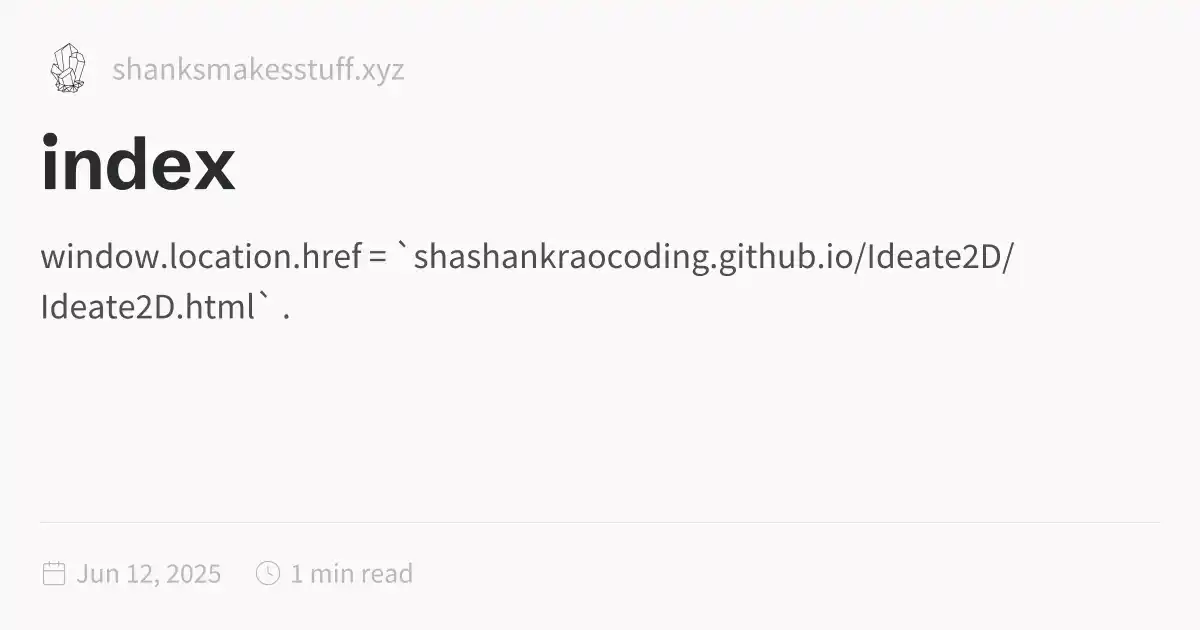
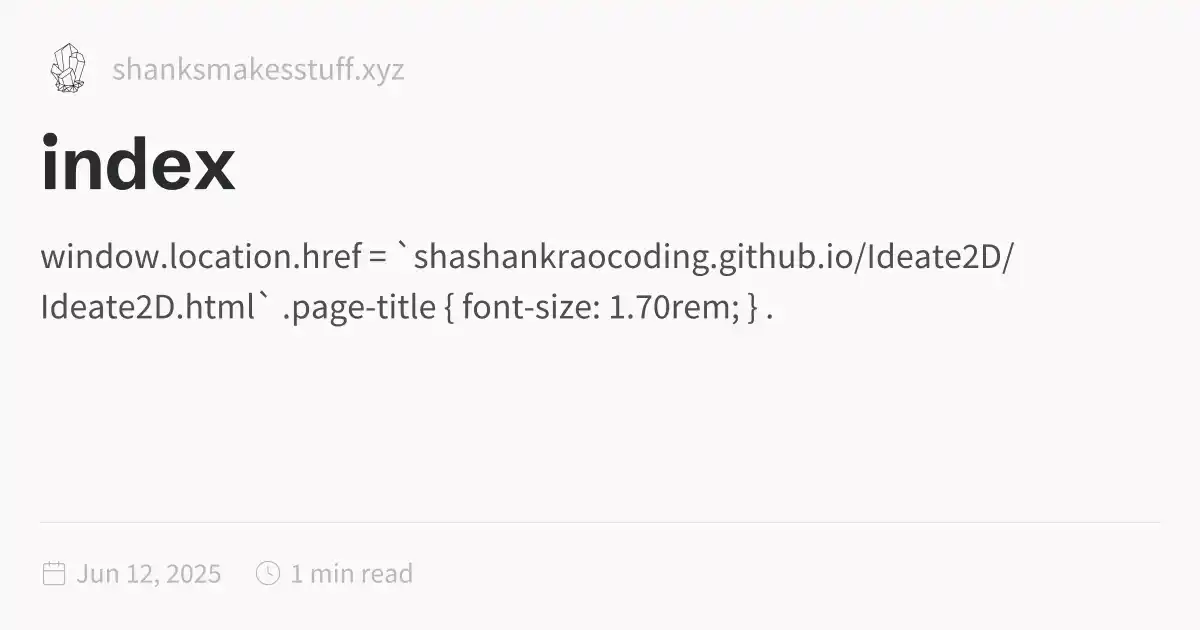
2025-06-12_2155

Changed region(s): [[0.2467, 0.4524, 0.6475, 0.5127]]

diff --git a/Ideate2D.html b/Ideate2D.html
@@ -116,7 +116,7 @@ pre:hover > .expand-button {
   padding: 0 12px;
   font-size: 14px;
 }
[2 lines of base64/hex data omitted]
 <p><strong>Ideate2D</strong> is a <em>WYSIWYG 2D game engine</em> built on top of <strong>PyGame</strong>, designed to help you bring your ideas to life faster—whether you’re a complete beginner or an experienced dev who just wants to get things done.</p>
 <p>💡 <strong>Why Ideate2D?</strong></p>
 <ul>
@@ -140,7 +140,14 @@ pre:hover > .expand-button {
 <li>No Warranty: The author, and any contributors to this repository are not responsible for any errors, negligence, omissions, or damages resulting from the use or misuse of the software.</li>
 <li>By using this software, you agree to assume all risks associated with its use.</li>
 </ul>
-<p><a href="https://github.com/ShashankRaoCoding/Ideate2D" class="external">GitHub Page <svg aria-hidden="true" class="external-icon" style="max-width:0.8em;max-height:0.8em;" viewBox="0 0 512 512"><path d="M320 0H288V64h32 82.7L201.4 265.4 178.7 288 224 333.3l22.6-22.6L448 109.3V192v32h64V192 32 0H480 320zM32 32H0V64 480v32H32 456h32V480 352 320H424v32 96H64V96h96 32V32H160 32z"></path></svg></a></p></article><hr/><div class="page-footer"></div></div><div class="right sidebar"><div class="graph"><h3>Graph View</h3><div class="graph-outer"><div class="graph-container" data-cfg="{&quot;drag&quot;:true,&quot;zoom&quot;:true,&quot;depth&quot;:1,&quot;scale&quot;:1.1,&quot;repelForce&quot;:0.5,&quot;centerForce&quot;:0.3,&quot;linkDistance&quot;:30,&quot;fontSize&quot;:0.6,&quot;opacityScale&quot;:1,&quot;showTags&quot;:true,&quot;removeTags&quot;:[],&quot;focusOnHover&quot;:false,&quot;enableRadial&quot;:false}"></div><button class="global-graph-icon" aria-label="Global Graph"><svg version="1.1" xmlns="http://www.w3.org/2000/svg" xmlns:xlink="http://www.w3.org/1999/xlink" x="0px" y="0px" viewBox="0 0 55 55" fill="currentColor" xml:space="preserve"><path d="M49,0c-3.309,0-6,2.691-6,6c0,1.035,0.263,2.009,0.726,2.86l-9.829,9.829C32.542,17.634,30.846,17,29,17
+<p>Download Link Coming Soon</p>
+ 
+	<style> 
+		.page-title { 
+			font-size: 1.70rem; 
+		}
+	</style> 
+</article><hr/><div class="page-footer"></div></div><div class="right sidebar"><div class="graph"><h3>Graph View</h3><div class="graph-outer"><div class="graph-container" data-cfg="{&quot;drag&quot;:true,&quot;zoom&quot;:true,&quot;depth&quot;:1,&quot;scale&quot;:1.1,&quot;repelForce&quot;:0.5,&quot;centerForce&quot;:0.3,&quot;linkDistance&quot;:30,&quot;fontSize&quot;:0.6,&quot;opacityScale&quot;:1,&quot;showTags&quot;:true,&quot;removeTags&quot;:[],&quot;focusOnHover&quot;:false,&quot;enableRadial&quot;:false}"></div><button class="global-graph-icon" aria-label="Global Graph"><svg version="1.1" xmlns="http://www.w3.org/2000/svg" xmlns:xlink="http://www.w3.org/1999/xlink" x="0px" y="0px" viewBox="0 0 55 55" fill="currentColor" xml:space="preserve"><path d="M49,0c-3.309,0-6,2.691-6,6c0,1.035,0.263,2.009,0.726,2.86l-9.829,9.829C32.542,17.634,30.846,17,29,17
                 s-3.542,0.634-4.898,1.688l-7.669-7.669C16.785,10.424,17,9.74,17,9c0-2.206-1.794-4-4-4S9,6.794,9,9s1.794,4,4,4
                 c0.74,0,1.424-0.215,2.019-0.567l7.669,7.669C21.634,21.458,21,23.154,21,25s0.634,3.542,1.688,4.897L10.024,42.562
                 C8.958,41.595,7.549,41,6,41c-3.309,0-6,2.691-6,6s2.691,6,6,6s6-2.691,6-6c0-1.035-0.263-2.009-0.726-2.86l12.829-12.829

diff --git a/index.html b/index.html
@@ -1,5 +1,5 @@
 <!DOCTYPE html>
-<html lang="en"><head><title>index</title><meta charset="utf-8"/><link rel="preconnect" href="https://fonts.googleapis.com"/><link rel="preconnect" href="https://fonts.gstatic.com"/><link rel="stylesheet" href="https://fonts.googleapis.com/css2?family=Schibsted Grotesk:wght@400;700&amp;family=Source Sans Pro:ital,wght@0,400;0,600;1,400;1,600&amp;family=IBM Plex Mono:wght@400;600&amp;display=swap"/><link rel="preconnect" href="https://cdnjs.cloudflare.com" crossorigin="anonymous"/><meta name="viewport" content="width=device-width, initial-scale=1.0"/><meta name="og:site_name" content="ShanksMakesStuff"/><meta property="og:title" content="index"/><meta property="og:type" content="website"/><meta name="twitter:card" content="summary_large_image"/><meta name="twitter:title" content="index"/><meta name="twitter:description" content="window.location.href = `shashankraocoding.github.io/Ideate2D/Ideate2D.html` ."/><meta property="og:description" content="window.location.href = `shashankraocoding.github.io/Ideate2D/Ideate2D.html` ."/><meta property="og:image:alt" content="window.location.href = `shashankraocoding.github.io/Ideate2D/Ideate2D.html` ."/><meta property="twitter:domain" content="shanksmakesstuff.xyz"/><meta property="og:url" content="https://shanksmakesstuff.xyz/index"/><meta property="twitter:url" content="https://shanksmakesstuff.xyz/index"/><link rel="icon" href="./static/icon.png"/><meta name="description" content="window.location.href = `shashankraocoding.github.io/Ideate2D/Ideate2D.html` ."/><meta name="generator" content="Quartz"/><link href="./index.css" rel="stylesheet" type="text/css" spa-preserve/><style>.expand-button {
+<html lang="en"><head><title>index</title><meta charset="utf-8"/><link rel="preconnect" href="https://fonts.googleapis.com"/><link rel="preconnect" href="https://fonts.gstatic.com"/><link rel="stylesheet" href="https://fonts.googleapis.com/css2?family=Schibsted Grotesk:wght@400;700&amp;family=Source Sans Pro:ital,wght@0,400;0,600;1,400;1,600&amp;family=IBM Plex Mono:wght@400;600&amp;display=swap"/><link rel="preconnect" href="https://cdnjs.cloudflare.com" crossorigin="anonymous"/><meta name="viewport" content="width=device-width, initial-scale=1.0"/><meta name="og:site_name" content="ShanksMakesStuff"/><meta property="og:title" content="index"/><meta property="og:type" content="website"/><meta name="twitter:card" content="summary_large_image"/><meta name="twitter:title" content="index"/><meta name="twitter:description" content="window.location.href = `shashankraocoding.github.io/Ideate2D/Ideate2D.html` .page-title { font-size: 1.70rem; } ."/><meta property="og:description" content="window.location.href = `shashankraocoding.github.io/Ideate2D/Ideate2D.html` .page-title { font-size: 1.70rem; } ."/><meta property="og:image:alt" content="window.location.href = `shashankraocoding.github.io/Ideate2D/Ideate2D.html` .page-title { font-size: 1.70rem; } ."/><meta property="twitter:domain" content="shanksmakesstuff.xyz"/><meta property="og:url" content="https://shanksmakesstuff.xyz/index"/><meta property="twitter:url" content="https://shanksmakesstuff.xyz/index"/><link rel="icon" href="./static/icon.png"/><meta name="description" content="window.location.href = `shashankraocoding.github.io/Ideate2D/Ideate2D.html` .page-title { font-size: 1.70rem; } ."/><meta name="generator" content="Quartz"/><link href="./index.css" rel="stylesheet" type="text/css" spa-preserve/><style>.expand-button {
   position: absolute;
   display: flex;
   float: right;
@@ -116,10 +116,17 @@ pre:hover > .expand-button {
   padding: 0 12px;
   font-size: 14px;
 }
[2 lines of base64/hex data omitted]
 	<script> 
 		window.location.href = `https://shashankraocoding.github.io/Ideate2D/Ideate2D.html` 
 	</script> 
+ 
+ 
+	<style> 
+		.page-title { 
+			font-size: 1.70rem; 
+		}
+	</style> 
 </article><hr/><div class="page-footer"></div></div><div class="right sidebar"><div class="graph"><h3>Graph View</h3><div class="graph-outer"><div class="graph-container" data-cfg="{&quot;drag&quot;:true,&quot;zoom&quot;:true,&quot;depth&quot;:1,&quot;scale&quot;:1.1,&quot;repelForce&quot;:0.5,&quot;centerForce&quot;:0.3,&quot;linkDistance&quot;:30,&quot;fontSize&quot;:0.6,&quot;opacityScale&quot;:1,&quot;showTags&quot;:true,&quot;removeTags&quot;:[],&quot;focusOnHover&quot;:false,&quot;enableRadial&quot;:false}"></div><button class="global-graph-icon" aria-label="Global Graph"><svg version="1.1" xmlns="http://www.w3.org/2000/svg" xmlns:xlink="http://www.w3.org/1999/xlink" x="0px" y="0px" viewBox="0 0 55 55" fill="currentColor" xml:space="preserve"><path d="M49,0c-3.309,0-6,2.691-6,6c0,1.035,0.263,2.009,0.726,2.86l-9.829,9.829C32.542,17.634,30.846,17,29,17
                 s-3.542,0.634-4.898,1.688l-7.669-7.669C16.785,10.424,17,9.74,17,9c0-2.206-1.794-4-4-4S9,6.794,9,9s1.794,4,4,4
                 c0.74,0,1.424-0.215,2.019-0.567l7.669,7.669C21.634,21.458,21,23.154,21,25s0.634,3.542,1.688,4.897L10.024,42.562
